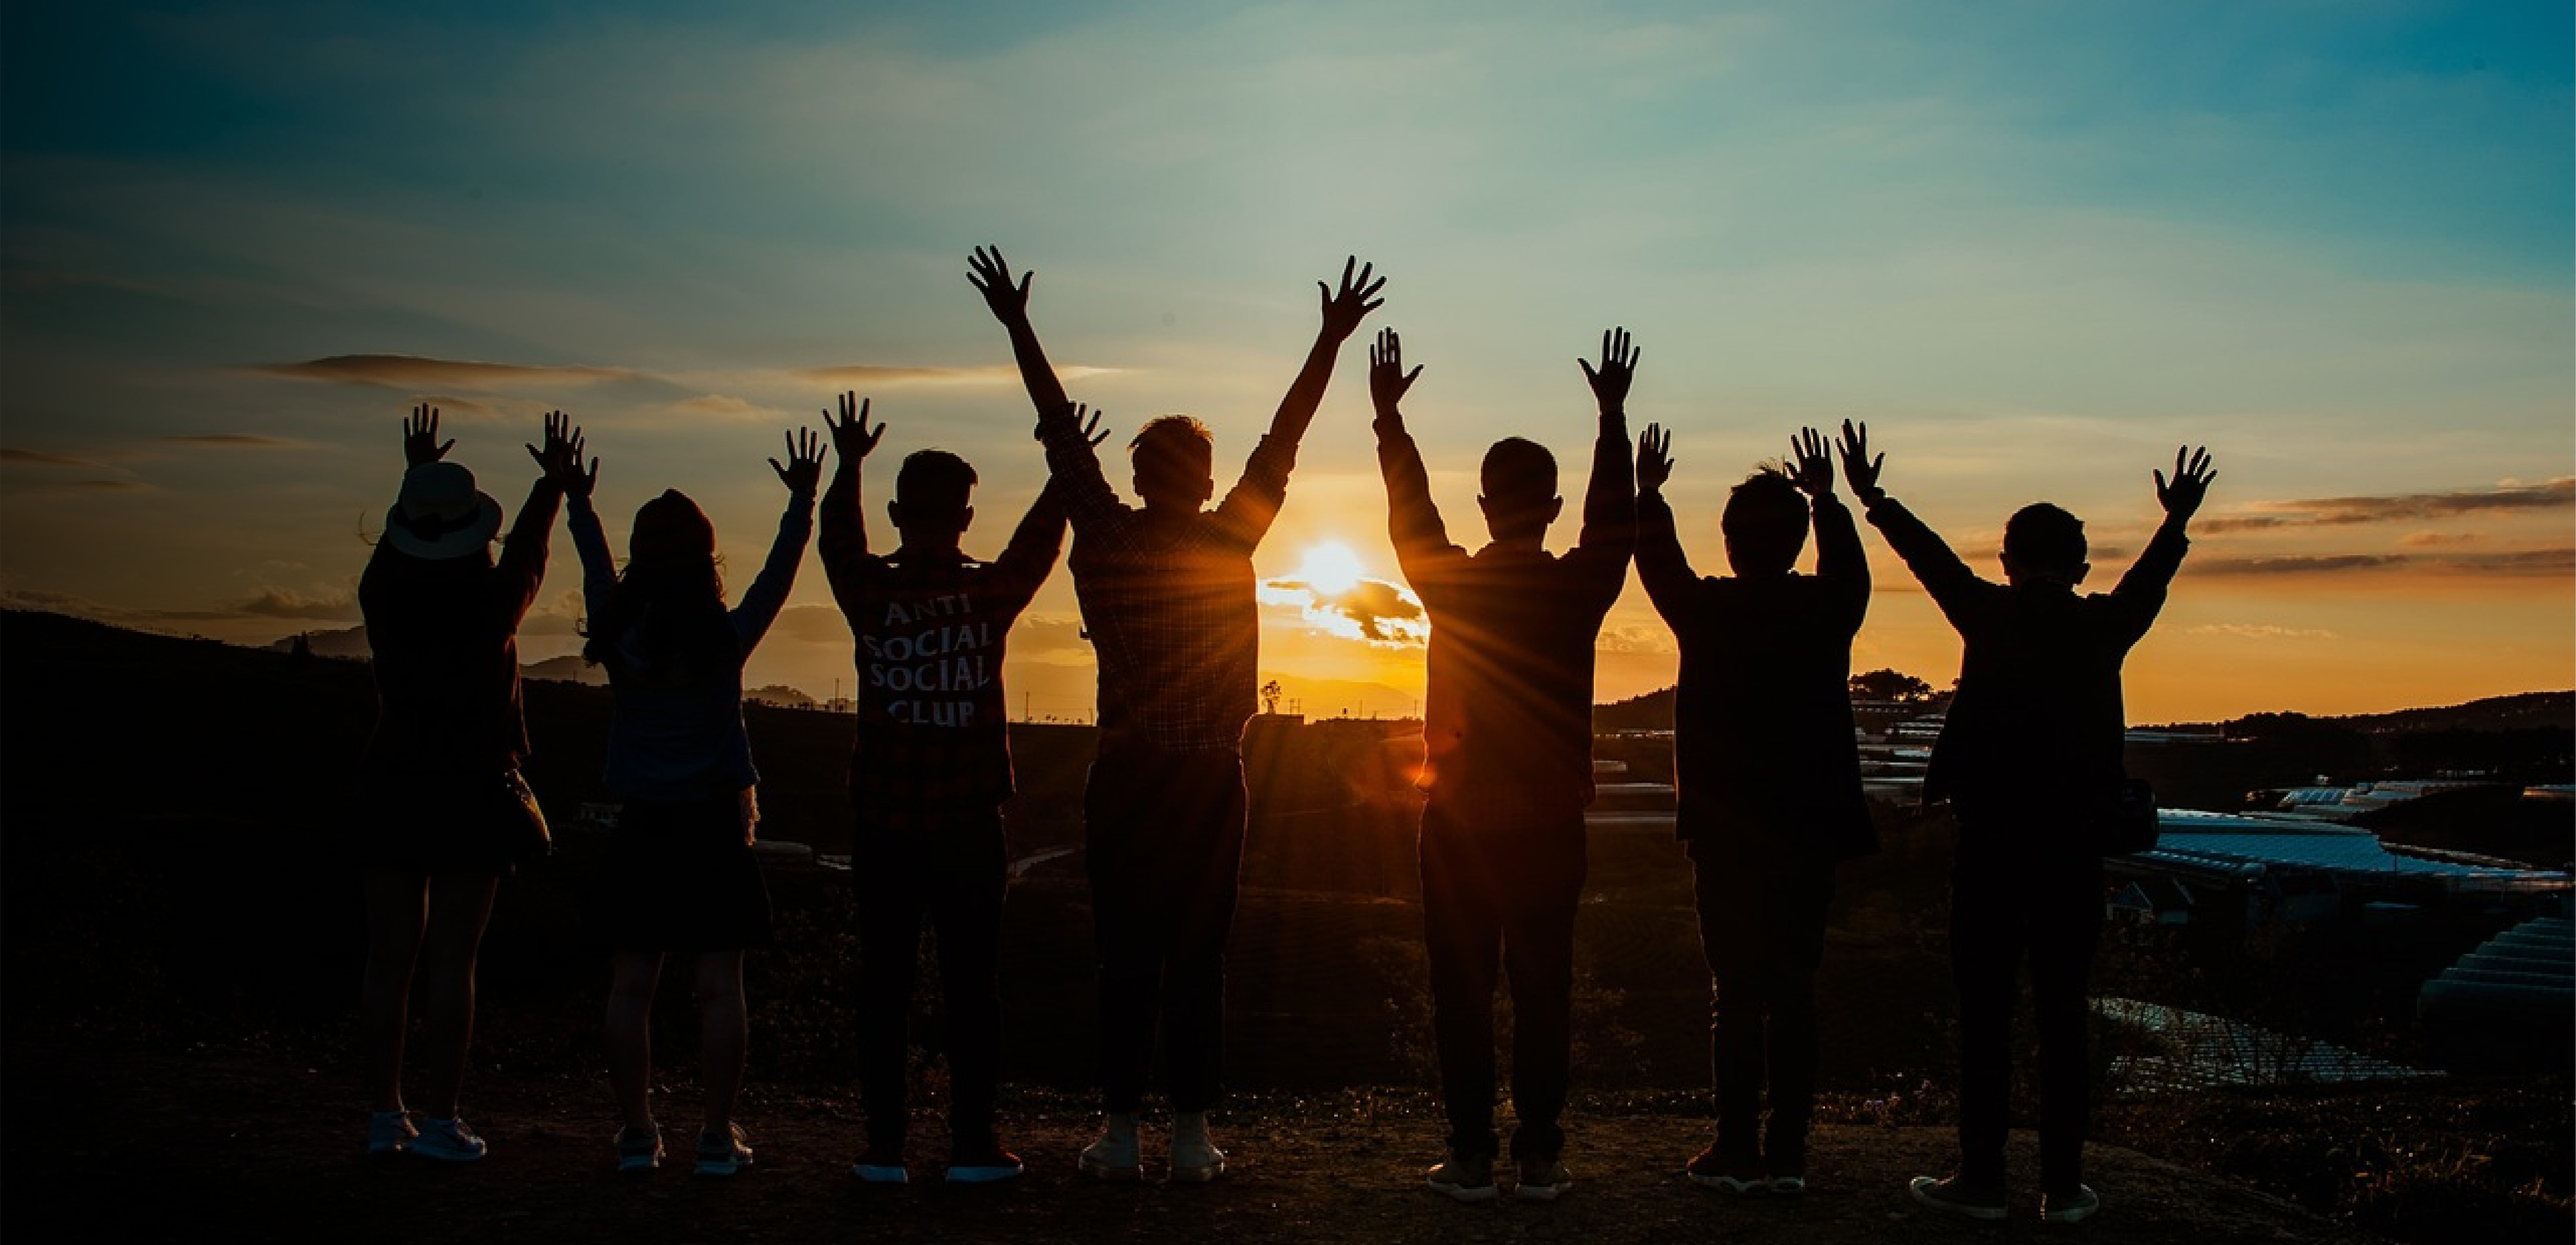
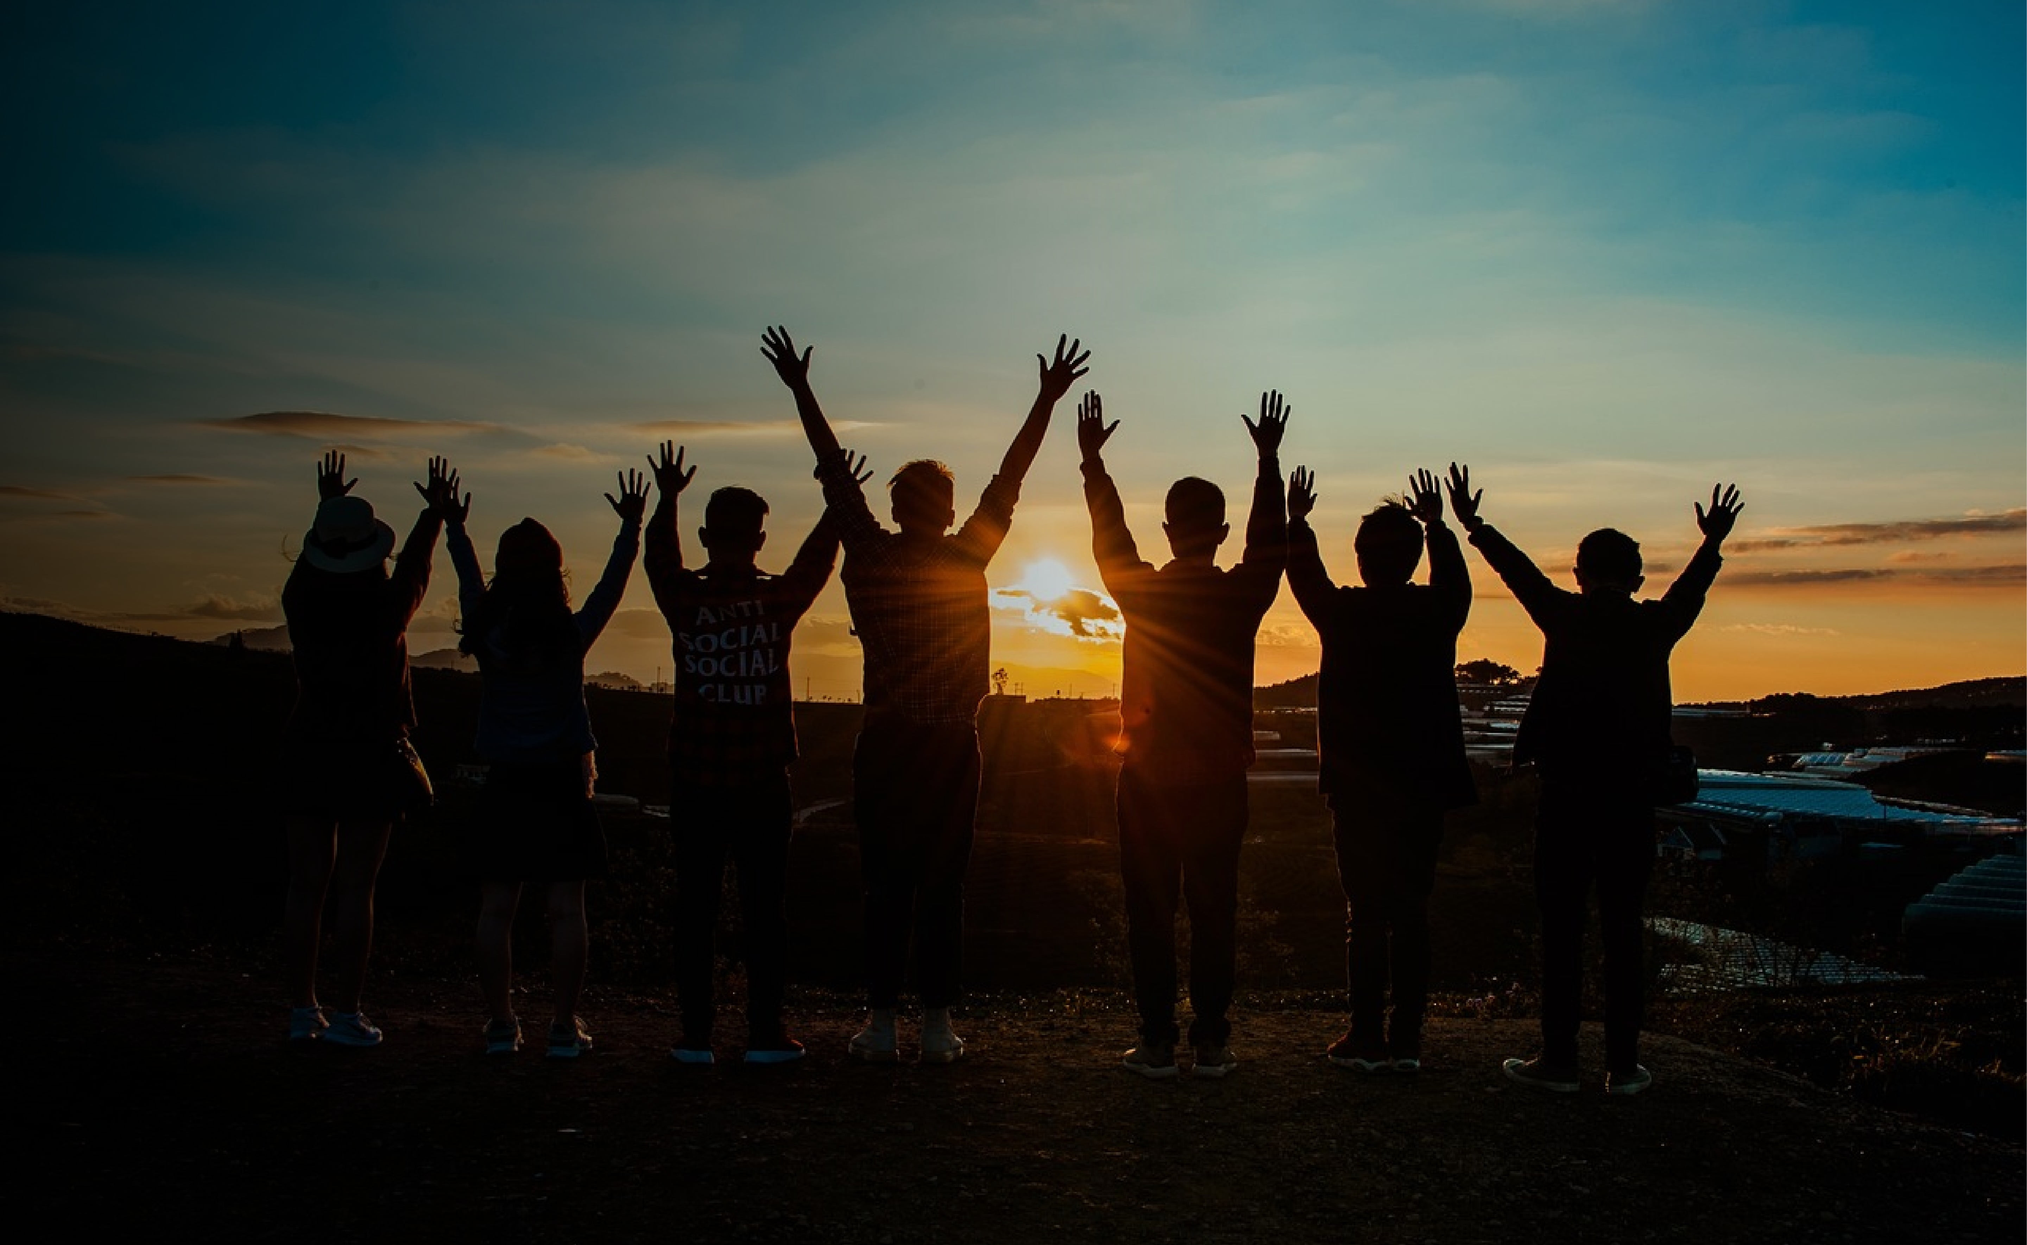
https://jamboard.google.com/d/1JnktjZte60ZHWUaN-hAcapeyLA0uYxoivgRZgJZs0Dw/viewer?f=1 수정사항 적용 3차 이미지 변경

diff --git a/kr/css/main.css b/kr/css/main.css
@@ -64,7 +64,7 @@ header .more_btn  a.distributor {
 	left: 0;
 	width: 100%;
 	height: 100vh;
-	background: url('../images/pc/main_section1_bg@3x.jpg') no-repeat 50% 50%;
+	background: url('../images/pc/main_section1_bg@3x.webp') no-repeat 50% 50%;
 	background-size: cover;
   /* background-attachment: fixed; */
 }
